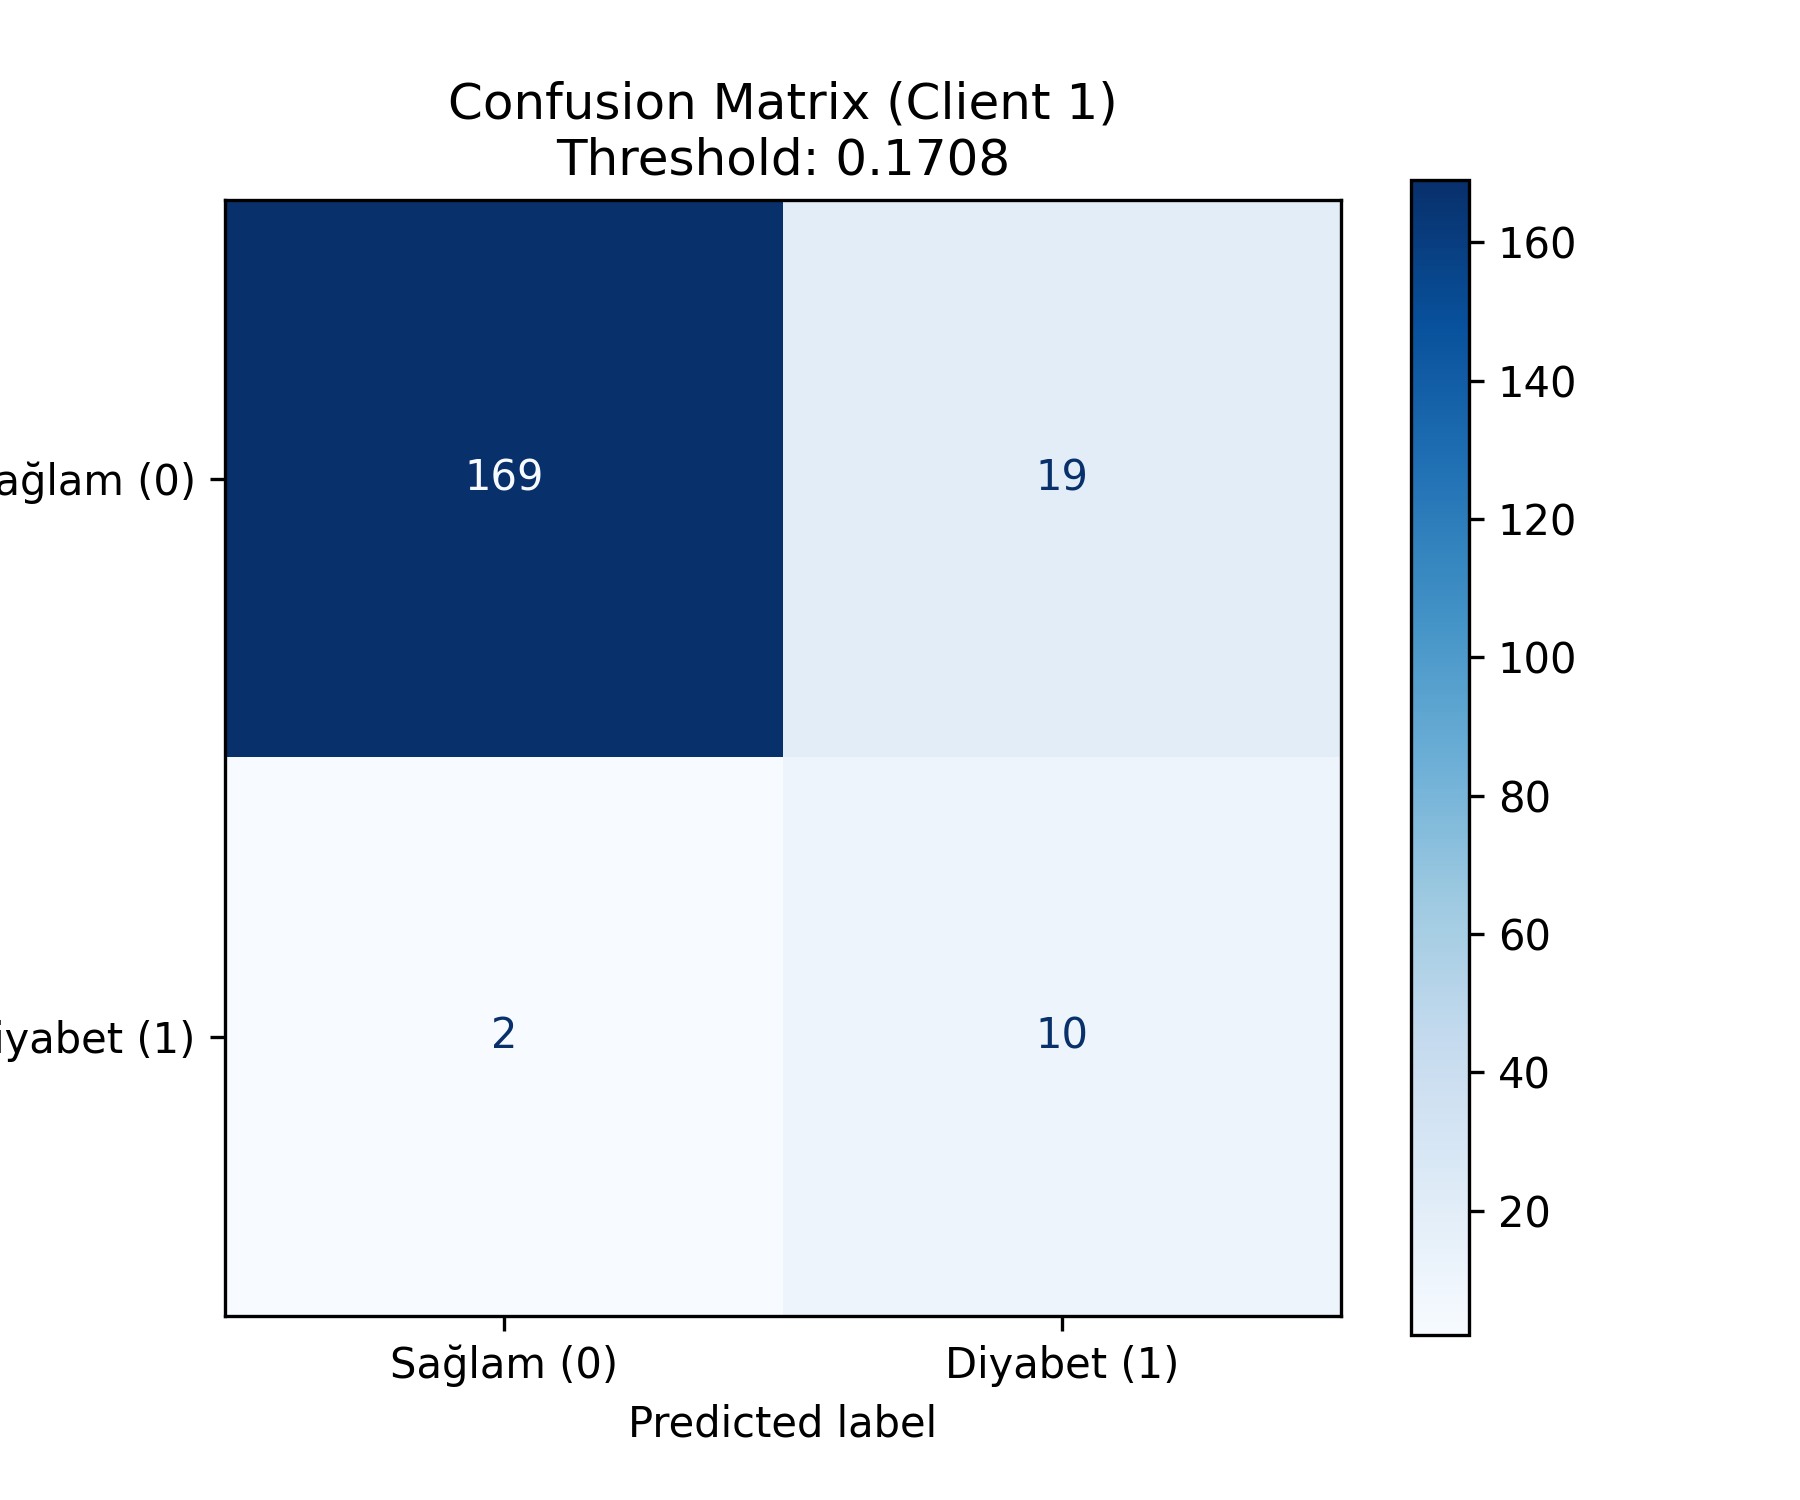
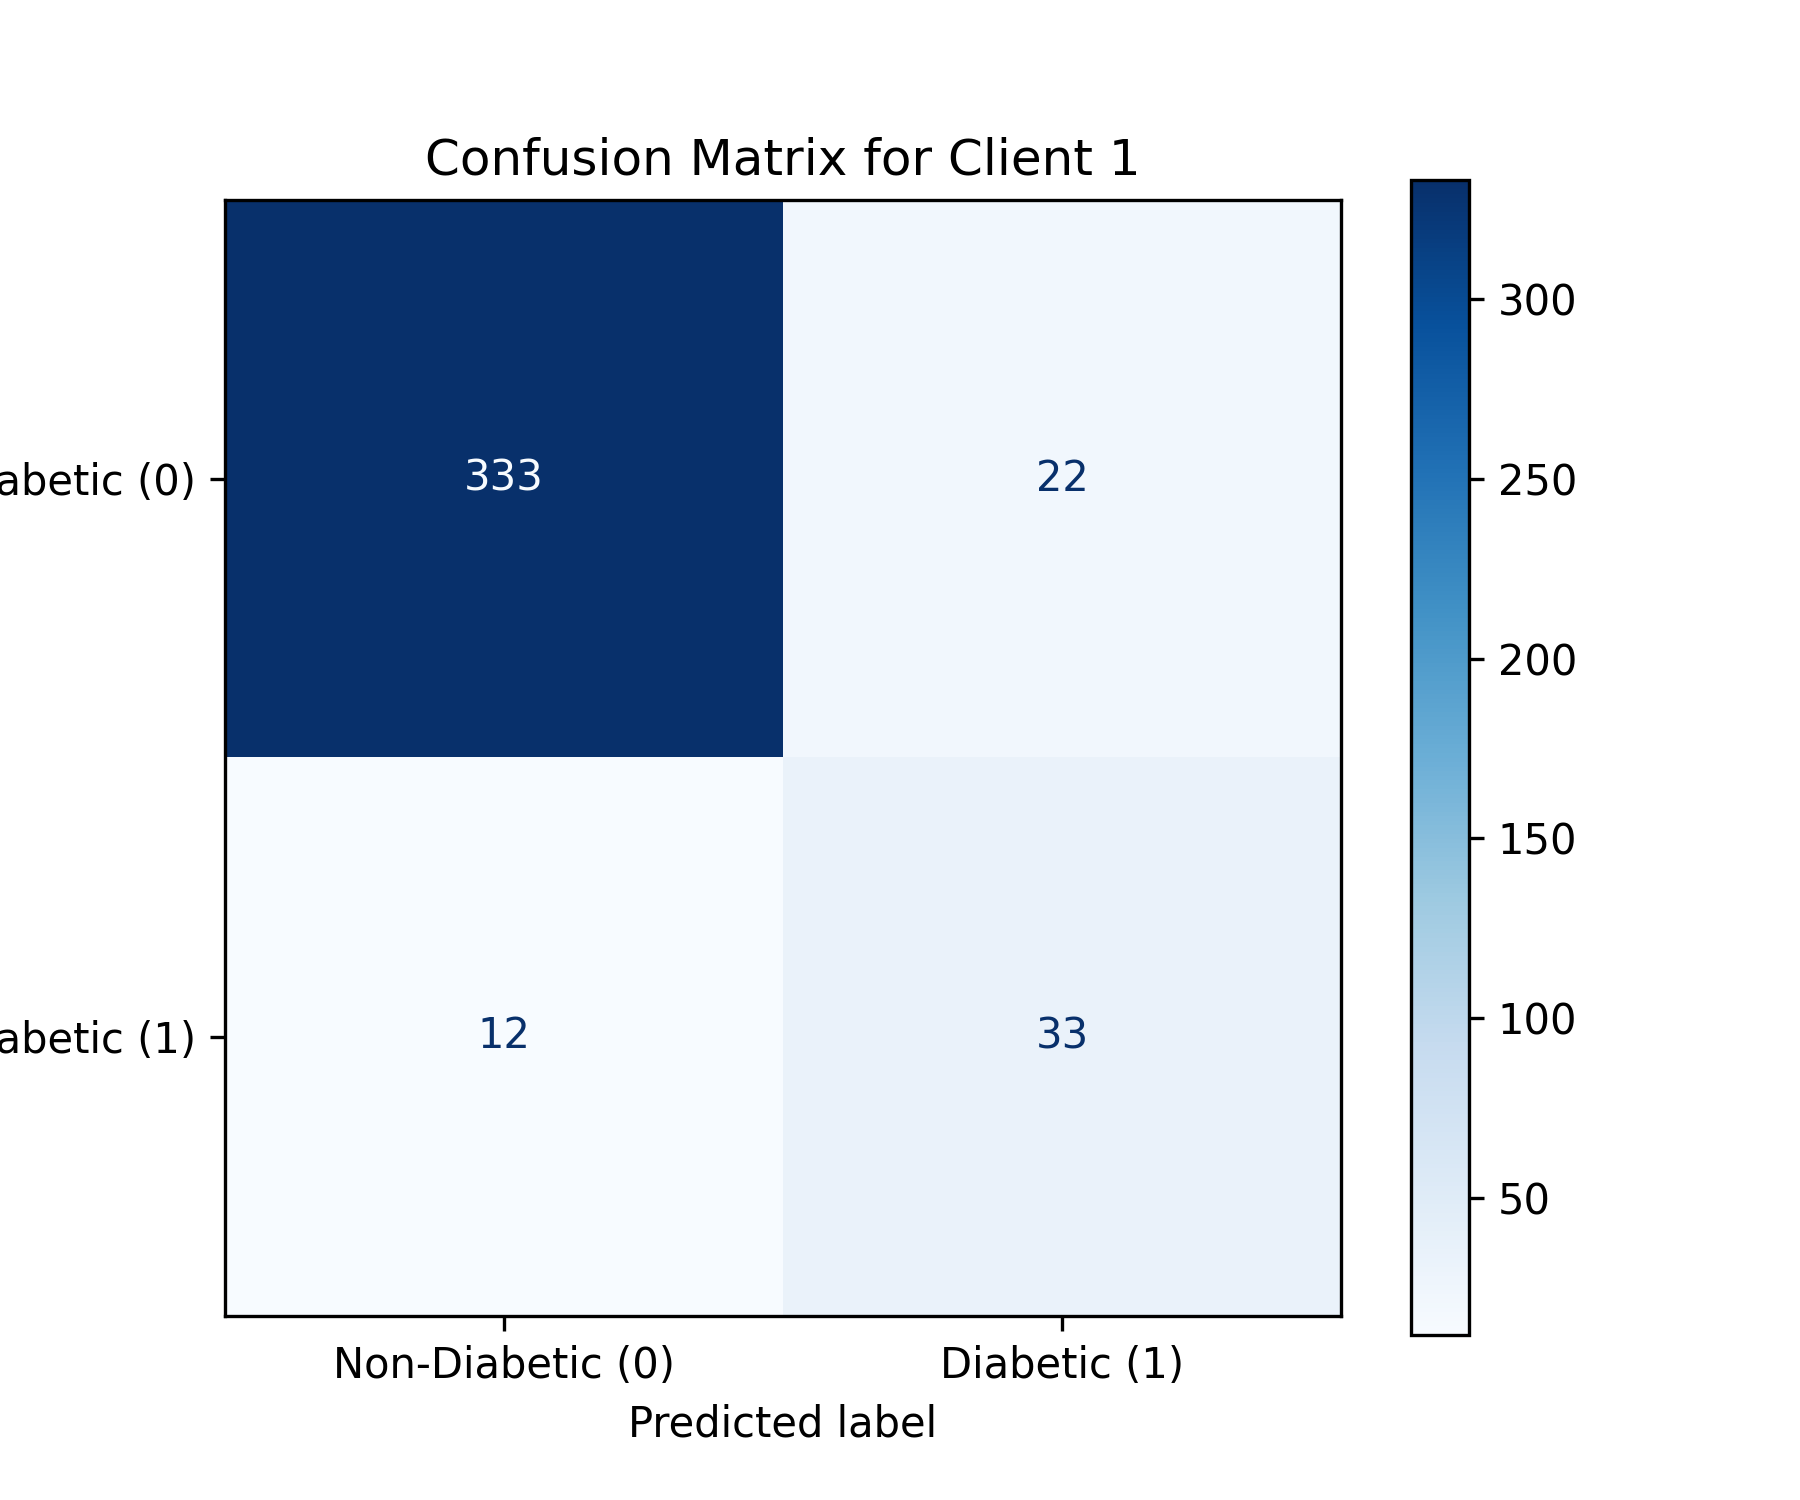
added new graphs and added GPU usage to Client

diff --git a/Client_2.py b/Client_2.py
@@ -4,6 +4,9 @@ import numpy as np
 import pandas as pd
 from sklearn.preprocessing import StandardScaler
 
+device = torch.device("cuda" if torch.cuda.is_available() else "cpu")
+print("Using device:", device)
+
 # Bu sınıf artık bir PyTorch Modeli gibi davranacak
 class GPModel(gpytorch.models.ExactGP):
     def __init__(self, train_x, train_y, likelihood):
@@ -37,10 +40,9 @@ class Client:
         X = pd.get_dummies(X, drop_first=True)
         X_scaled = scaler.fit_transform(X)
         
-        self.X_tensor = torch.tensor(X_scaled).float()
-        self.y_tensor = torch.tensor(y.values).float()
-
-        limit = 1000
+        self.X_tensor = torch.tensor(X_scaled).float().to(device)
+        self.y_tensor = torch.tensor(y.values).float().to(device)
+        limit = 2000
         self.X_tensor = self.X_tensor[:limit]
         self.y_tensor = self.y_tensor[:limit]
 
@@ -51,8 +53,8 @@ class Client:
         self.test_x = self.X_tensor[train_size:]
         self.test_y = self.y_tensor[train_size:]
         
-        self.likelihood = gpytorch.likelihoods.GaussianLikelihood()
-        self.model = GPModel(self.train_x, self.train_y, self.likelihood)
+        self.likelihood = gpytorch.likelihoods.GaussianLikelihood().to(device)
+        self.model = GPModel(self.train_x, self.train_y, self.likelihood).to(device)
         
         self.optimizer = torch.optim.Adam(self.model.parameters(), lr=0.1)
         
@@ -101,8 +103,8 @@ class Client:
         with torch.no_grad(), gpytorch.settings.fast_pred_var():
             observed_pred = self.likelihood(self.model(X_test_tensor))
             
-            y_pred = observed_pred.mean.numpy()
-            y_var = observed_pred.variance.numpy()
+            y_pred = observed_pred.mean.detach().cpu().numpy()
+            y_var = observed_pred.variance.detach().cpu().numpy()
             
         return y_pred, y_var
 
@@ -111,8 +113,8 @@ class Client:
         new_output_scale = np.exp(params[0])
         new_length_scale = np.exp(params[1])
         
-        self.model.covar_module.outputscale = torch.tensor(new_output_scale)
-        self.model.covar_module.base_kernel.lengthscale = torch.tensor([[new_length_scale]])
+        self.model.covar_module.outputscale = torch.tensor(new_output_scale, device=device)
+        self.model.covar_module.base_kernel.lengthscale = torch.tensor([[new_length_scale]], device=device)
 
     def get_params(self):
         return self.model.covar_module.outputscale,self.model.covar_module.base_kernel.lengthscale

diff --git a/evalutation.py b/evalutation.py
@@ -8,38 +8,29 @@ def detailed_analysis(client):
     Veri tiplerini ve boyutlarını sklearn için zorla düzeltir.
     """
     
-    # 1. Tahmin Al (GPyTorch'tan)
-    # y_pred_raw bir tensör veya numpy array olabilir, garantileyeceğiz
     y_pred_raw, y_var = client.predict()
     
-    # 2. Gerçek Değerleri (Test Y) Al ve Dönüştür
     y_true = client.test_y
     
-    # Eğer Tensor ise Numpy'a çevir (CPU'ya alarak)
     if torch.is_tensor(y_true):
         y_true = y_true.cpu().numpy()
     
     if torch.is_tensor(y_pred_raw):
         y_pred_raw = y_pred_raw.cpu().numpy()
         
-    # --- KRİTİK DÜZELTME: FLATTEN (DÜZLEŞTİRME) ---
-    # [[0], [1]] şeklindeki (N, 1) matrisi [0, 1] şeklindeki (N,) dizisine çevirir.
     y_true = y_true.flatten()
     y_pred_raw = y_pred_raw.flatten()
     
-    # y_true'nun kesinlikle Tamsayı olduğundan emin ol
     y_true = y_true.astype(int)
 
-    # Çok sınıflıysa ikiliye çevir (0: negatif, diğerleri: pozitif)
     unique_labels = np.unique(y_true)
     if unique_labels.size > 2:
         y_true = (y_true != 0).astype(int)
     else:
-        # {0,1} dışında iki sınıf varsa yeniden eşle
         if not np.array_equal(unique_labels, np.array([0, 1])):
             y_true = (y_true == unique_labels.max()).astype(int)
-    
-    # 3. Optimal Threshold Bulma
+            
+    # Finding optimal threshold using ROC curve
     fpr, tpr, thresholds = roc_curve(y_true, y_pred_raw)
     
     if len(thresholds) > 0:
@@ -48,10 +39,8 @@ def detailed_analysis(client):
     else:
         optimal_threshold = 0.5
     
-    # 4. Binary Tahmin
     y_pred_binary = (y_pred_raw > optimal_threshold).astype(int)
     
-    # 5. Metrikler
     precision, recall, f1, _ = precision_recall_fscore_support(y_true, y_pred_binary, average='binary', zero_division=0)
     roc_auc = auc(fpr, tpr)
     
@@ -68,7 +57,3 @@ def detailed_analysis(client):
         'fp': fp,
         'fn': fn
     }
-
-# main.py uyumluluğu için boş fonksiyon
-def predict_with_dynamic_threshold(client):
-    pass

diff --git a/main.py b/main.py
@@ -5,6 +5,8 @@ import numpy as np
 from evalutation import detailed_analysis
 import matplotlib.pyplot as plt
 from sklearn.metrics import ConfusionMatrixDisplay
+import torch
+import gpytorch
 
 clients = [] 
 client_updates = {}
@@ -57,12 +59,12 @@ for cid, r in results.items():
                    [r['fn'], r['tp']]])
     
     disp = ConfusionMatrixDisplay(confusion_matrix=cm, 
-                                  display_labels=["Sağlam (0)", "Diyabet (1)"])
+                                  display_labels=["Non-Diabetic (0)", "Diabetic (1)"])
     
     fig, ax = plt.subplots(figsize=(6, 5))
     disp.plot(cmap='Blues', ax=ax, values_format='d')
     
-    plt.title(f"Confusion Matrix (Client {cid})\nThreshold: {r['threshold']:.4f}")
+    plt.title(f"Confusion Matrix for Client {cid}")
     
     filename = f"client_{cid}_confusion_matrix.png"
     plt.savefig(filename, dpi=300) 
